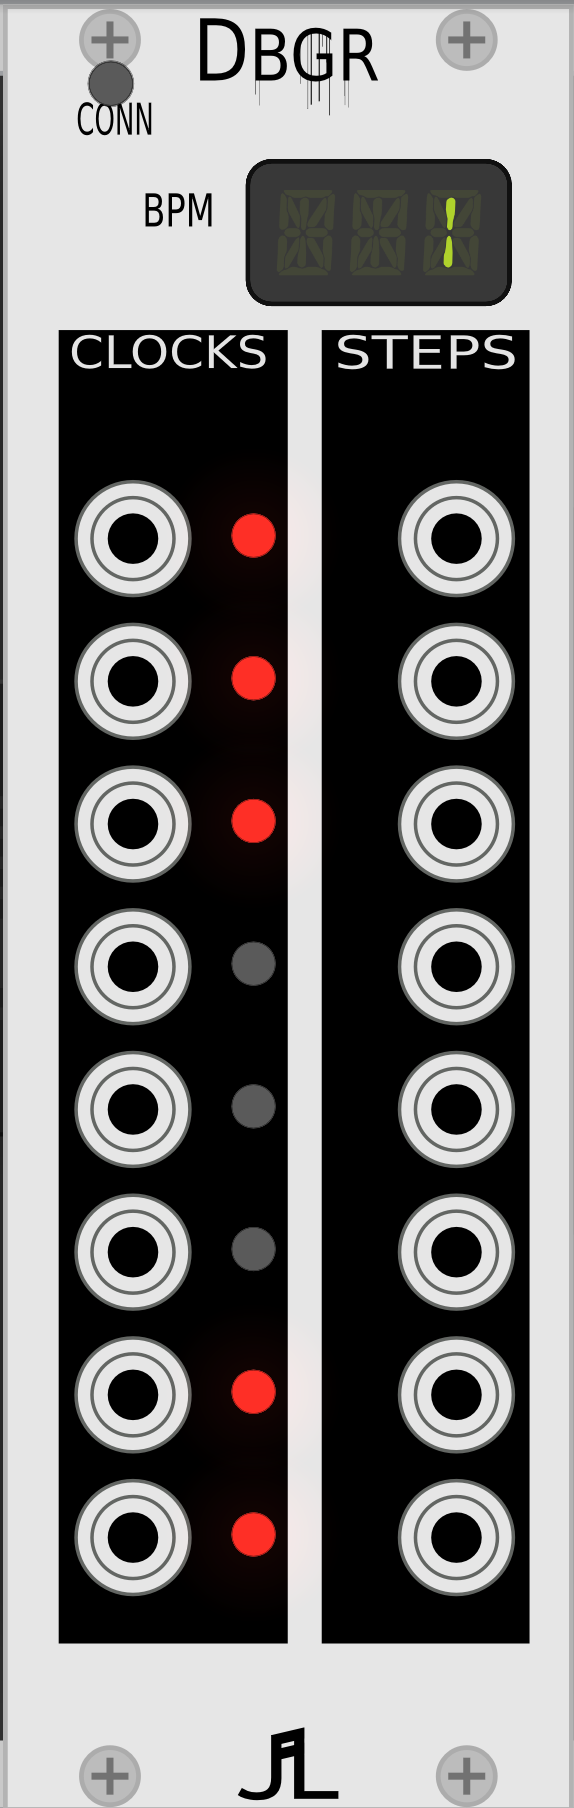
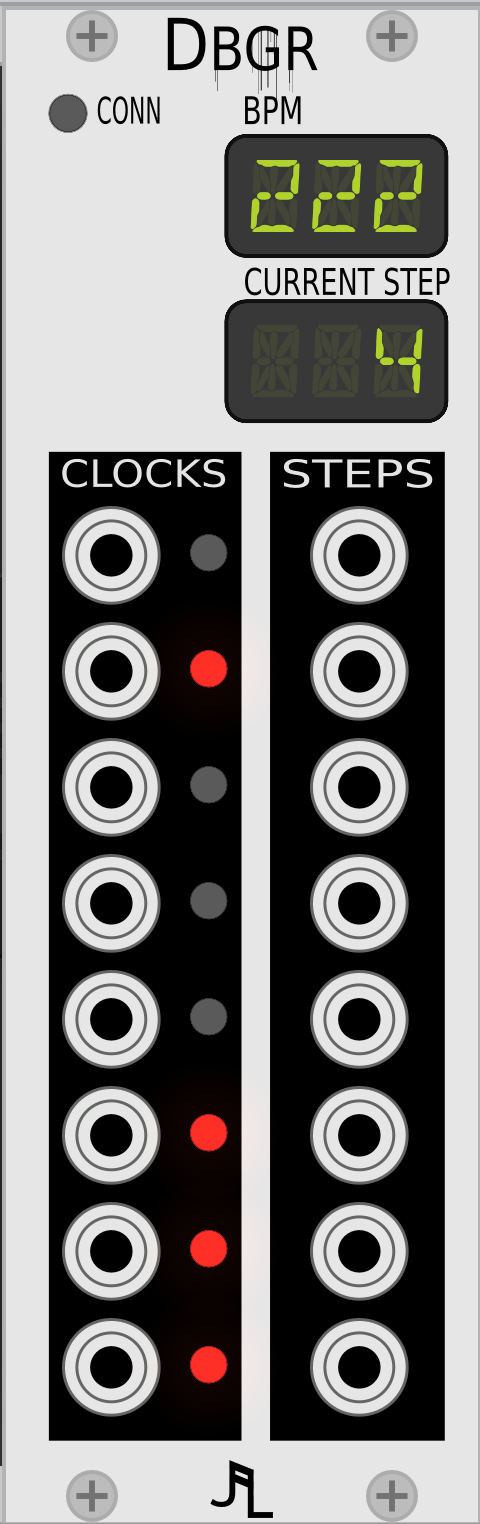
Updated readme and added new images

diff --git a/README.md b/README.md
@@ -24,16 +24,17 @@ A timer can re-trigger itself or another timer.
 The timer starts when the Trigger button is pressed, or when there's an external trigger received.
 
 #### Ratchets
-![Imgur](https://imgur.com/a/TJ4kt4q)
+<img src="https://user-images.githubusercontent.com/3755877/77819450-35bdc780-70db-11ea-9758-4c60c0cb8fb8.png" width="25%">
+
 
 8 step gate and note sequencer with 1-8 ratchets per step and with a built-in bernouli gate for each step selecting between two different ratchet settings.
 Number of steps in the sequencer can be set and individual steps can be disabled.
 Each step can pan (left-right) with adjustable spread. 
 
 #### Ratchets_debugger
-![Imgur](https://imgur.com/a/ZwP3L26)
+<img src="https://user-images.githubusercontent.com/3755877/77819454-3b1b1200-70db-11ea-9c04-82abc0274c90.png" width="25%">
 
-Expander module to Ratchets that exposes the 8 internal clocks and the 8 steps in the sequencer. Used for debugging, but can be used as a utility for e.g. triggering at specific step.
+Expander module to Ratchets that exposes the 8 internal clocks and the 8 steps in the sequencer. Used by me for debugging, but can be used as a utility for e.g. triggering at specific step.
 
 
 
